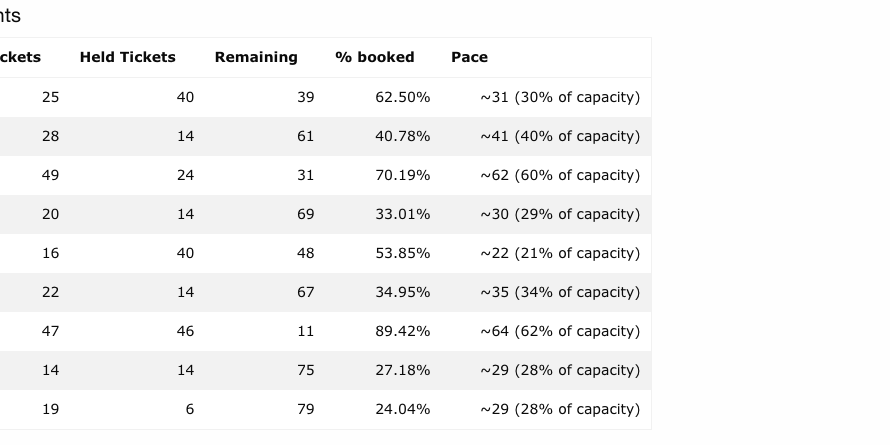
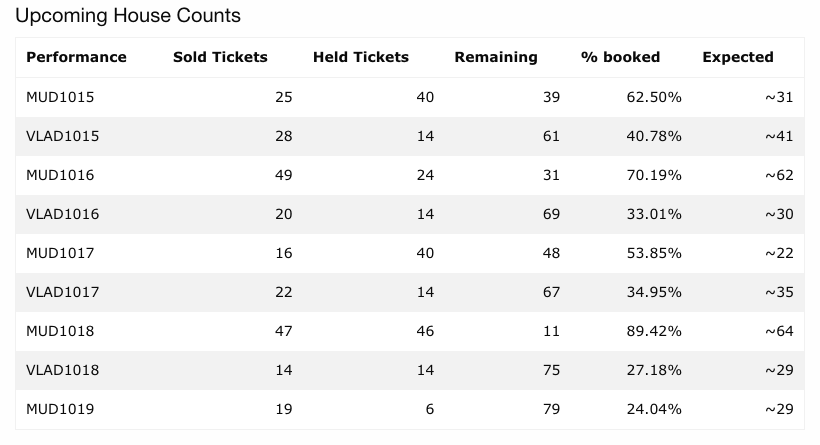
feat: house-count column reads Expected, count only
"Pace" promised velocity, which the Analysis tabs already use it for.
The column on Upcoming House Counts and in house_counts.txt is now
Expected: the paid count expected at curtain if the show sells the way
this house usually does, including tickets already sold. The web cell
drops the share of capacity. Manual rewritten around that meaning with
a worked example.

Claude-Session: https://claude.ai/code/session_01CmqwJhyVttaoodjh63pDpp

diff --git a/app/helpers/admin/advance_sales_helper.rb b/app/helpers/admin/advance_sales_helper.rb
@@ -61,13 +61,12 @@ module Admin::AdvanceSalesHelper
     number_with_delimiter(count)
   end
 
-  # Pace cell for the Upcoming House Counts table, read from the pace snapshot
-  # on a HouseCount (refreshed on every recalculation and nightly): a dash with
-  # no snapshot or nothing projectable, "Too early" when the share in hand is
-  # too small to project, else
-  # "~84 (84% of capacity)". The title explains the basis. A production whose
-  # sales are recorded externally is never projected, so its dash carries a
-  # title saying why.
+  # Expected cell for the Upcoming House Counts table: the paid count expected
+  # at curtain, read from the pace snapshot on a HouseCount (refreshed on every
+  # recalculation and nightly). A dash with no snapshot or nothing projectable,
+  # "Too early" when the share in hand is too small to project, else "~84".
+  # The title explains the basis. A production whose sales are recorded
+  # externally is never projected, so its dash carries a title saying why.
   def house_count_pace_cell(house_count)
     if house_count.performance.production&.sales_recorded_externally?
       return content_tag(:span, EMPTY_CELL, title: EXTERNAL_SALES_TITLE)
@@ -77,16 +76,10 @@ module Admin::AdvanceSalesHelper
     title = house_count_pace_title(house_count)
     return content_tag(:span, TOO_EARLY_LABEL, title: title) if house_count.pace_too_early?
 
-    content_tag(:span, house_count_pace_text(house_count), title: title)
+    content_tag(:span, "~#{number_with_delimiter(house_count.projected_seats)}", title: title)
   end
 
   private
-
-  def house_count_pace_text(house_count)
-    text = "~#{number_with_delimiter(house_count.projected_seats)}"
-    pct = house_count.projected_pct_of_capacity
-    pct ? "#{text} (#{(pct * 100).round}% of capacity)" : text
-  end
 
   def house_count_pace_title(house_count)
     share = (house_count.pace_share.to_f * 100).round

diff --git a/spec/models/house_count_spec.rb b/spec/models/house_count_spec.rb
@@ -268,7 +268,6 @@ RSpec.describe HouseCount, type: :model do
       expect(house_count).to have_attributes(projected_seats: 40, pace_share: 0.5, pace_sold: 20,
                                              pace_source: 'theater', pace_as_of: as_of)
       expect(house_count).to be_new_record
-      expect(house_count.projected_pct_of_capacity).to be_within(1e-9).of(0.4)
       expect(house_count).not_to be_pace_too_early
     end
 
@@ -279,21 +278,12 @@ RSpec.describe HouseCount, type: :model do
       expect(house_count).to have_attributes(projected_seats: nil, pace_share: nil, pace_sold: nil,
                                              pace_source: nil, pace_as_of: as_of)
       expect(house_count).not_to be_pace_too_early
-      expect(house_count.projected_pct_of_capacity).to be_nil
     end
 
     it 'is too early when a share is stored without a projection' do
       house_count.apply_pace(reading(projected_final: nil, typical_share: 0.05), as_of: as_of)
 
       expect(house_count).to be_pace_too_early
-      expect(house_count.projected_pct_of_capacity).to be_nil
-    end
-
-    it 'has no percent of capacity when total seats is zero' do
-      house_count.total_seats = 0
-      house_count.apply_pace(reading(projected_final: 40), as_of: as_of)
-
-      expect(house_count.projected_pct_of_capacity).to be_nil
     end
 
     it 'counts days out from the day the projection was computed' do

diff --git a/spec/helpers/admin/advance_sales_helper_spec.rb b/spec/helpers/admin/advance_sales_helper_spec.rb
@@ -151,18 +151,13 @@ RSpec.describe Admin::AdvanceSalesHelper, type: :helper do
       )
     end
 
-    it 'shows the projection against capacity with the basis in the title' do
+    it 'shows the expected count alone, with the basis in the title' do
       html = helper.house_count_pace_cell(house_count(projected_seats: 1234, total_seats: 2000))
 
       expect(html).to have_css(
         'span[title="Sold 20 as of Oct 6; this house typically has 50% in hand 7 days out"]',
-        exact_text: '~1,234 (62% of capacity)'
+        exact_text: '~1,234'
       )
-    end
-
-    it 'leaves out the capacity part when there is no capacity' do
-      expect(helper.house_count_pace_cell(house_count(total_seats: nil))).to have_css('span', exact_text: '~40')
-      expect(helper.house_count_pace_cell(house_count(total_seats: 0))).to have_css('span', exact_text: '~40')
     end
 
     it 'notes the building-wide curve in the title' do
@@ -170,7 +165,7 @@ RSpec.describe Admin::AdvanceSalesHelper, type: :helper do
 
       expect(html).to have_css(
         'span[title="Sold 20 as of Oct 6; this house typically has 50% in hand 7 days out (building-wide curve)"]',
-        exact_text: '~40 (40% of capacity)'
+        exact_text: '~40'
       )
     end
   end

diff --git a/spec/views/current_user/accounts/_house_counts.html.haml_spec.rb b/spec/views/current_user/accounts/_house_counts.html.haml_spec.rb
@@ -1,6 +1,6 @@
 require 'rails_helper'
 
-# The Upcoming House Counts table on the account page carries a Pace column
+# The Upcoming House Counts table on the account page carries an Expected column
 # read from each house count's nightly pace snapshot.
 RSpec.describe 'current_user/accounts/_house_counts', type: :view do
   let(:as_of) { Date.new(2026, 10, 6) }
@@ -27,16 +27,16 @@ RSpec.describe 'current_user/accounts/_house_counts', type: :view do
     }
   end
 
-  it 'adds a Pace header after % booked' do
+  it 'adds an Expected header after % booked' do
     headers = Capybara.string(rendered).all('thead th').map(&:text)
 
-    expect(headers.last(2)).to eq(['% booked', 'Pace'])
+    expect(headers.last(2)).to eq(['% booked', 'Expected'])
   end
 
-  it 'shows the projection against capacity with its basis on hover' do
+  it 'shows the expected count with its basis on hover' do
     expect(row_for('PROJ01')).to have_css(
       'td span[title="Sold 20 as of Oct 6; this house typically has 50% in hand 7 days out"]',
-      exact_text: '~84 (84% of capacity)'
+      exact_text: '~84'
     )
   end
 

diff --git a/spec/jobs/export_house_counts_job_spec.rb b/spec/jobs/export_house_counts_job_spec.rb
@@ -49,13 +49,13 @@ RSpec.describe ExportHouseCountsJob, type: :job do
     expect(content).to include('Generated')
   end
 
-  it 'adds a Pace column showing the projected seats, blank when nothing was projected' do
+  it 'adds an Expected column showing the projected seats, blank when nothing was projected' do
     performance1.house_count.update_columns(projected_seats: 87)
 
     ExportHouseCountsJob.perform(file_path)
 
     lines = File.read(file_path).lines
-    expect(lines.find { |l| l.include?('| Code') }).to match(/\| Max Price\s*\| Pace\s*\|/)
+    expect(lines.find { |l| l.include?('| Code') }).to match(/\| Max Price\s*\| Expected\s*\|/)
     expect(lines.find { |l| l.include?(performance1.performance_code) }).to match(/\|\s*~87 \|\s*$/)
     expect(lines.find { |l| l.include?(performance2.performance_code) }).to match(/\|\s+\|\s*$/)
   end

diff --git a/app/jobs/export_house_counts_job.rb b/app/jobs/export_house_counts_job.rb
@@ -13,7 +13,7 @@ class ExportHouseCountsJob
       { key: :held,      header: 'Held',      align: :right },
       { key: :remaining, header: 'Remaining', align: :right },
       { key: :max_price, header: 'Max Price', align: :right },
-      { key: :pace,      header: 'Pace',      align: :right }
+      { key: :pace,      header: 'Expected',  align: :right }
     ]
 
     rows = HouseCount.export_records.map do |house_count|

diff --git a/app/models/house_count.rb b/app/models/house_count.rb
@@ -73,12 +73,6 @@ class HouseCount < Metric
     pace_share.present? && projected_seats.nil?
   end
 
-  def projected_pct_of_capacity
-    return nil unless projected_seats.to_i.positive? && total_seats.to_i.positive?
-
-    projected_seats.to_f / total_seats
-  end
-
   def pace_days_out
     return nil if pace_as_of.nil?
 

diff --git a/docs/manual/analysis/advance-sales.md b/docs/manual/analysis/advance-sales.md
@@ -26,8 +26,9 @@ bought for:
 - What does a run look like week by week, and how did performances added after opening
   sell compared with the original run?
 
-A related **Pace** column on upcoming house counts uses the same history to project where
-an upcoming performance is heading. See [Pace](#pace-on-house-counts).
+A related **Expected** column on upcoming house counts uses the same history to project
+where an upcoming performance is heading. See
+[Expected sales on house counts](#expected-sales-on-house-counts).
 
 ## Running the analysis
 
@@ -145,37 +146,41 @@ that mixes the two kinds says which is which.
 
 ![External sales label in the week-by-week list](../assets/images/screenshots/advance-sales-external-sales-label.png)
 
-## Pace on house counts
+## Expected sales on house counts
 
-![Pace on Upcoming House Counts](../assets/images/screenshots/house-counts-pace-column.png)
+![Expected on Upcoming House Counts](../assets/images/screenshots/house-counts-pace-column.png)
 
-Pace projects where an upcoming performance is heading from the theater's own history: if
-this house typically has 60% of a performance's final sales in hand a week out, and a
-performance a week away has sold 30 tickets, the projection is about 50 tickets.
+**Expected** is the paid count the performance is expected to have at curtain if it sells
+the way this house usually does. It already includes the tickets sold so far; held tickets
+and comps are not part of it.
+
+For example, MUD1019 is six days out with 19 paid tickets. At this theater, performances
+six days out have typically sold about two thirds of their final count, so 19 ÷ 0.66 gives
+~29 expected at curtain, about ten more between now and show time.
 
 You see it in two places:
 
 - **Upcoming House Counts** on your account page (the page you land on after signing in,
-  shown to theater users and administrators). The last column, **Pace**, reads
-  **~84 (84% of capacity)**. Hover over it for the basis, for example "Sold 50 as of
-  Oct 13; this house typically has 70% in hand 3 days out".
-- The HUD file `house_counts.txt`, as a right-aligned **Pace** column showing the count
-  only (`~84`). It is blank when there is nothing to project or it is too early. See
+  shown to theater users and administrators). The last column, **Expected**, reads
+  **~29**. Hover over it for the basis, for example "Sold 19 as of Oct 13; this house
+  typically has 66% in hand 6 days out".
+- The HUD file `house_counts.txt`, as a right-aligned **Expected** column (`~29`). It is
+  blank when there is nothing to project or it is too early. See
   [HUD Display](../house-management/hud-display.md).
 
 | Reading | Meaning |
 |---------|---------|
-| **~N (P% of capacity)** | Projected final count and its share of the production's capacity. |
+| **~N** | Paid tickets expected at curtain, including those already sold. |
 | **Too early** | The theater typically has under 10% in hand this far out, so a projection would be noise. |
 | **--** | The performance has played, is inactive, the production's sales are recorded externally, or there is not enough history to project from. |
 
 The history is the theater's earlier seasons, leaving out any production whose sales are
 recorded externally; such a production is never projected either. A theater with fewer
 than 1,000 tickets of history uses the building-wide curve instead, and the hover text
-ends with "(building-wide curve)". Pace is not affected by in-progress seasons, because it
+ends with "(building-wide curve)". Expected is not affected by in-progress seasons, because it
 only ever looks at seasons before the production's own.
 
-The "Sold" figure Pace projects from counts paid, seat-holding tickets, leaving out
+The "Sold" figure Expected projects from counts paid, seat-holding tickets, leaving out
 complimentary ones, each dated by its original purchase. It can therefore be a little
 under the row's **Sold** column, which includes comps.
 
@@ -186,6 +191,6 @@ re-projects every upcoming performance, so a performance with no new sales still
 along the curve as its date approaches.
 
 !!! note
-    Pace is a projection from typical behaviour, not a forecast of this show. A strong
+    Expected is a projection from typical behaviour, not a forecast of this show. A strong
     review, a snowstorm, or a late press push will move a performance off its house's
     usual curve.

diff --git a/docs/manual/house-management/hud-display.md b/docs/manual/house-management/hud-display.md
@@ -29,12 +29,12 @@ Real-time seat inventory for upcoming performances (next 14 days).
 
 ```
 HOUSE COUNTS
-+------------+------+------+-----------+-----------+------+
-| Code       | Sold | Held | Remaining | Max Price | Pace |
-+------------+------+------+-----------+-----------+------+
-| ALLY0327   |   54 |   33 |        13 |     24.00 |  ~71 |
-| NOON0327   |   25 |   18 |        61 |     60.00 |      |
-+------------+------+------+-----------+-----------+------+
++------------+------+------+-----------+-----------+----------+
+| Code       | Sold | Held | Remaining | Max Price | Expected |
++------------+------+------+-----------+-----------+----------+
+| ALLY0327   |   54 |   33 |        13 |     24.00 |      ~71 |
+| NOON0327   |   25 |   18 |        61 |     60.00 |          |
++------------+------+------+-----------+-----------+----------+
 Generated Fri Mar 27 13:26:57 CDT 2026
 ```
 
@@ -45,7 +45,7 @@ Generated Fri Mar 27 13:26:57 CDT 2026
 | Held | Tickets on hold orders (reserved, not yet paid) |
 | Remaining | Seats still available for sale |
 | Max Price | Highest web-visible ticket price currently on sale |
-| Pace | Projected final paid count from the theater's advance-sales curve; blank when it is too early to project or the production's sales are recorded externally. See [Advance Sales](../analysis/advance-sales.md#pace-on-house-counts). |
+| Expected | Paid tickets expected at curtain if the show sells the way this house usually does; includes tickets already sold. Blank when it is too early to project or the production's sales are recorded externally. See [Advance Sales](../analysis/advance-sales.md#expected-sales-on-house-counts). |
 
 **Update frequency:** Every 10 minutes.
 
@@ -92,7 +92,7 @@ Same format as `last7_counts.txt` but covers days 8 through 14 ago. Displayed al
 | File | Frequency | Data Source |
 |------|-----------|-------------|
 | house_counts.txt | Every 10 minutes | HouseCount records (recalculated every 5 min) |
-| Pace in house_counts.txt | Nightly at 4:40 AM, plus whenever a house count is recalculated | ProjectHouseCountsJob / HouseCount recalculation |
+| Expected in house_counts.txt | Nightly at 4:40 AM, plus whenever a house count is recalculated | ProjectHouseCountsJob / HouseCount recalculation |
 | todays_counts.txt | Every 30 minutes | RateOfSale intraday totals (updated every 30 min) |
 | last7_counts.txt | Daily at 1:15 AM | RateOfSale records summed over 7 days |
 | previous7_counts.txt | Daily at 1:20 AM | RateOfSale records for days 8-14 ago |

diff --git a/docs/manual/house-management/house-counts.md b/docs/manual/house-management/house-counts.md
@@ -18,7 +18,7 @@ A house count record exists for each performance and tracks the following metric
 | Held | Number of tickets on Hold orders (reserved but not yet paid) |
 | Remaining | Seats still available for sale (Total Seats minus Sold minus Held) |
 | Percentage Booked | The proportion of capacity that is sold or held, shown as a percentage |
-| Pace | For upcoming performances, the projected final paid count from the theater's advance-sales curve. See [Advance Sales](../analysis/advance-sales.md#pace-on-house-counts). |
+| Expected | For upcoming performances, the paid count expected at curtain if the performance sells the way this house usually does. It already includes the tickets sold so far; held tickets and comps are not part of it. See [Advance Sales](../analysis/advance-sales.md#expected-sales-on-house-counts). |
 
 !!! tip
     The "Remaining" count is the number you should reference when a patron asks if tickets are available. It accounts for both paid orders and held reservations.
@@ -103,7 +103,7 @@ House count snapshots are saved periodically, creating a historical record of ho
 | Component | Update Frequency |
 |-----------|-----------------|
 | HouseCount records | Every 5 minutes (CalculateHouseCountsJob) |
-| Pace projection | Nightly at 4:40 AM (ProjectHouseCountsJob), plus whenever a house count is recalculated |
+| Expected projection | Nightly at 4:40 AM (ProjectHouseCountsJob), plus whenever a house count is recalculated |
 | HUD display files | Every 10 minutes (ExportHouseCountsJob) |
 | Dashboard view | Refreshed on page load |
 

diff --git a/docs/manual/productions/creating-a-production.md b/docs/manual/productions/creating-a-production.md
@@ -108,8 +108,9 @@ into Stagemgr afterwards. For such a production the order date is the date of da
 not the date the patron bought, so its lead times and sales curve are meaningless.
 Ticking this box keeps the production out of the
 [Advance Sales](../analysis/advance-sales.md) analysis by default (a checkbox on that form
-lets you include it deliberately), leaves it out of the sales history behind the **Pace**
-column, shows no Pace projection for it on house counts, and removes it from the
+lets you include it deliberately), leaves it out of the sales history behind the
+[**Expected**](../analysis/advance-sales.md#expected-sales-on-house-counts) column, shows
+no expected final count for it on house counts, and removes it from the
 [Rate of Sales](../analysis/rate-of-sales.md) analysis altogether. Everything else about
 the production is unaffected.
 

diff --git a/docs/manual/analysis/analysis-overview.md b/docs/manual/analysis/analysis-overview.md
@@ -107,7 +107,8 @@ Looks at *when* tickets were bought relative to the performance: the share of a 
 final sales already in hand 60, 30, 14, 7 and fewer days out, and how much sold in each
 window. Compare seasons, theaters or productions, with single tickets and passes drawn
 separately. A week-by-week table per production shows how each run sold and flags
-performances added after opening, and a **Pace** column on upcoming house counts projects
+performances added after opening, and an
+[**Expected**](advance-sales.md#expected-sales-on-house-counts) column on upcoming house counts projects
 upcoming performances from the theater's own history. Open it from the **Advance Sales**
 tab, or from the **Advance Sales** button on a production page.
 
